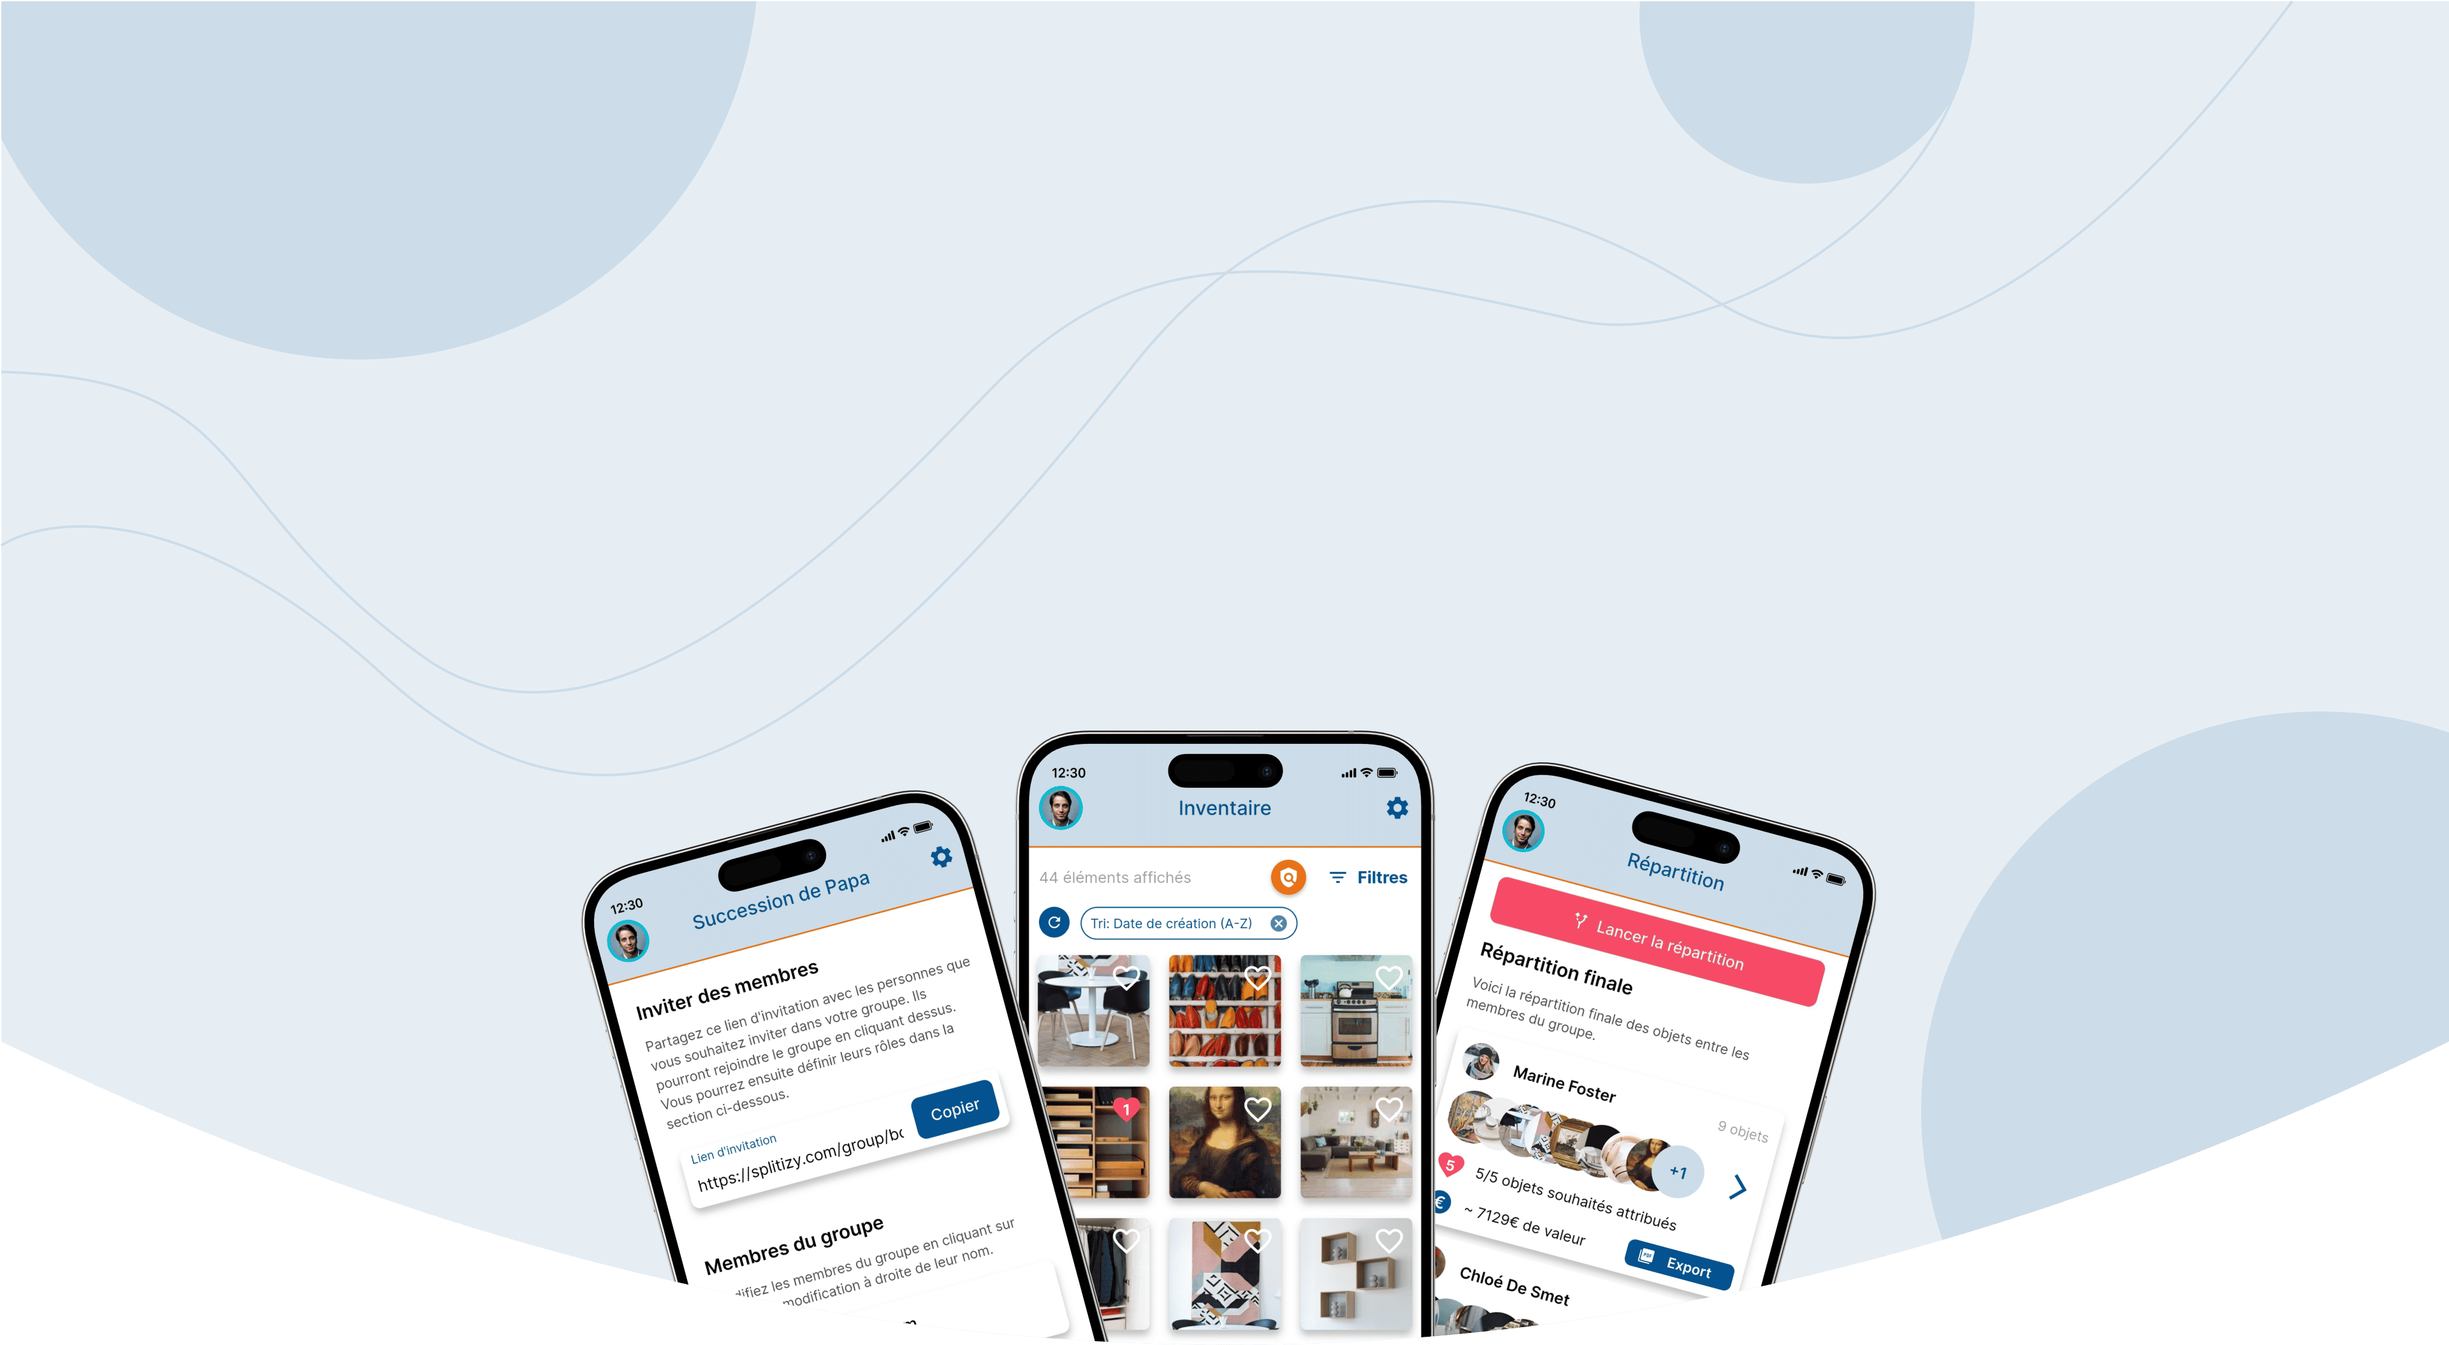
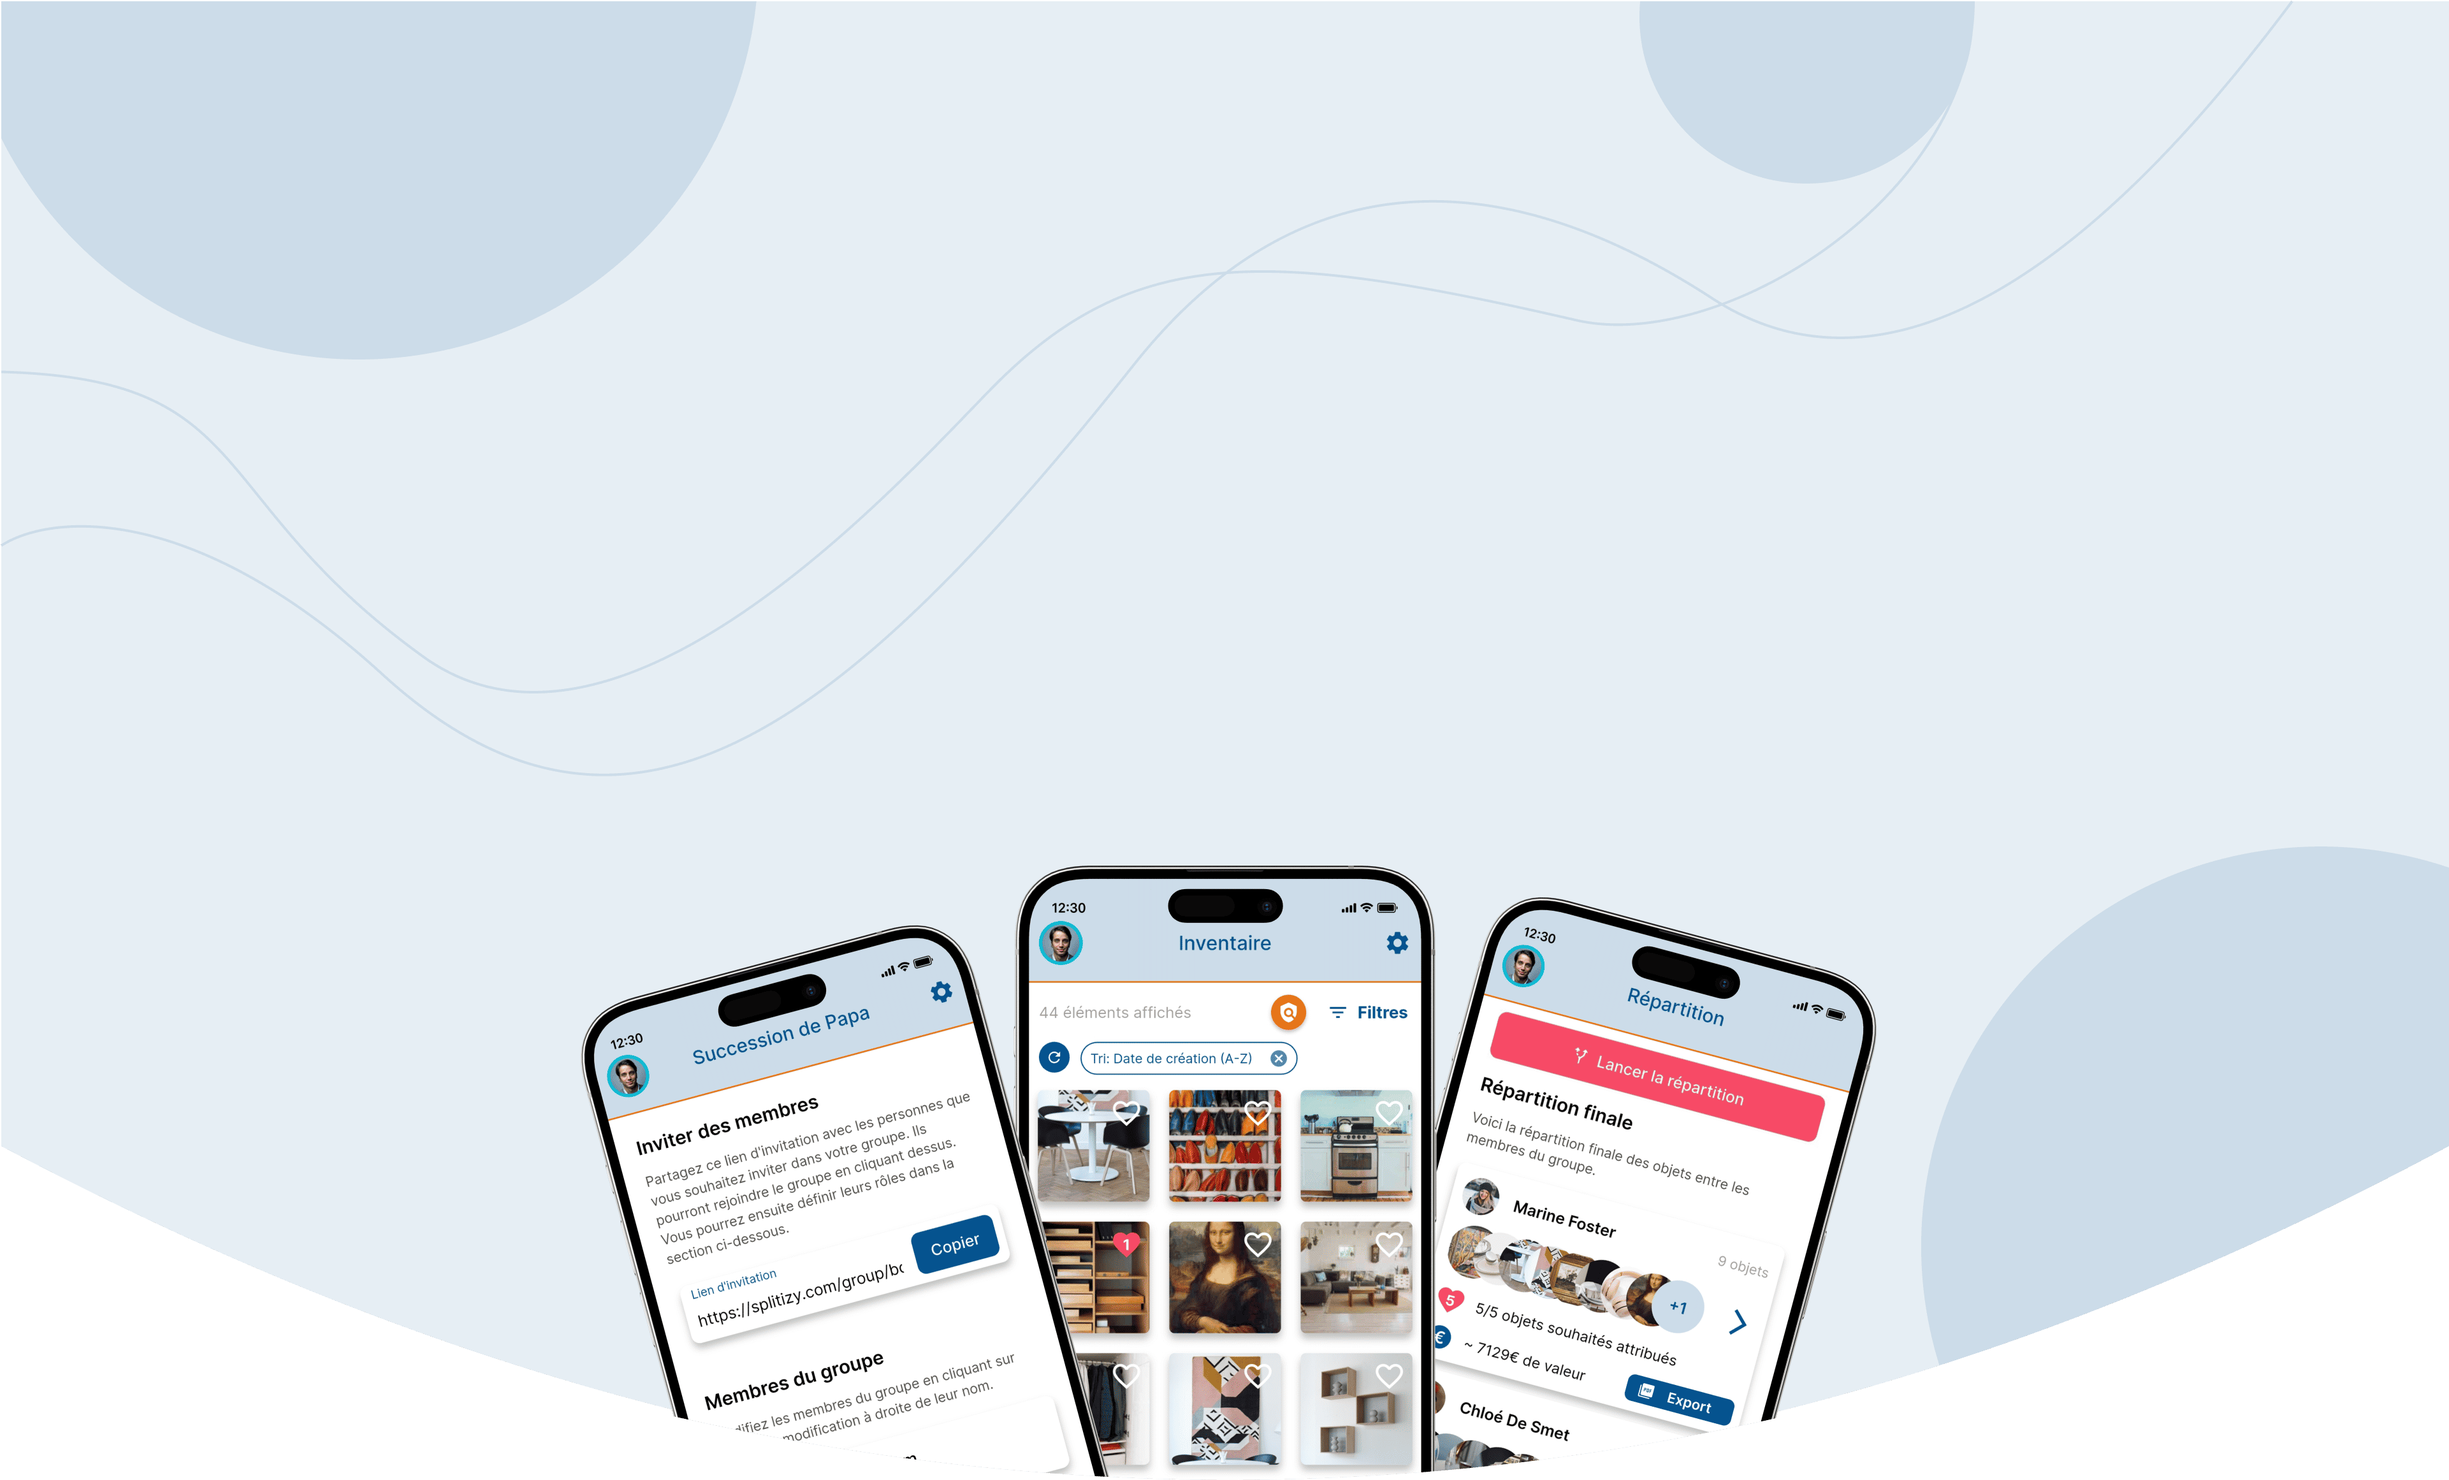
Corrections

diff --git a/index.html b/index.html
@@ -6,7 +6,7 @@
     <meta charset="UTF-8">
     <meta http-equiv="X-UA-Compatible" content="IE=edge">
     <meta name="viewport" content="width=device-width, initial-scale=1.0">
-    <title>Splitizy - Gérez et partagez vos biens en groupe</title>
+    <title>Splitizy - Inventoriez, Gérez et Partagez vos biens en toute sérénité</title>
     <meta name="robots" content="index, follow" />
     <meta name="description" content="Splitizy - La solution innovante pour le partage et la gestion de vos biens en succession. Simplifiez vos successions avec notre application intuitive.">
     <link rel="canonical" href="https://splitizy.com/" />
@@ -77,7 +77,7 @@
                         <div class="col-xl-3 col-lg-2 col-6">
                             <ul class="header-right">
                                 <li class="d-none d-md-block">
-                                    <a class="btn btn-custom-size btn-md btn-professionnel" href="https://sand.pro.splitizy.com">Professionnel</a>
+                                    <a class="btn btn-custom-size btn-md btn-professionnel" href="https://sand.pro.splitizy.com" target="_blank" rel="noopener noreferrer">Professionnel</a>
                                 </li>
                                 <li class="d-none d-md-block">
                                     <a class="btn btn-custom-size btn-md blackcurrant-color extbot-primary-hover-4" href="https://apps.apple.com/fr/app/splitizy/id6747078524" target="_blank" rel="noopener noreferrer">Télécharger</a>
@@ -140,7 +140,7 @@
             <div class="container">
                 <div class="hero-item">
                     <div class="hero-content">
-                        <h1 class="title">Gérez et partagez <br><span>vos biens</span>en groupe.</h1>
+                        <h1 class="title">Inventoriez, <span class="no-bubble">Gérez</span> et Partagez <br><span>vos biens</span>en toute sérénité.</h1>
                         <p class="desc">La solution complète pour l'inventaire, la répartition et le partage équitable de vos biens</p>
                         <div class="hero-btn-wrap">
                             <a href="https://play.google.com/store/apps/details?id=com.splitizy.splitizy&hl=fr" target="_blank" rel="noopener noreferrer">
@@ -278,7 +278,7 @@
                     <div class="col-lg-12">
                         <div class="trial-item">
                             <h2 class="trial-title">C'est gratuit !</h2>
-                            <p class="trial-desc">La version gratuite vous donne accès à toutes les fonctionnalités de Splitizy.
+                            <p class="trial-desc">La version démo vous donne accès à toutes les fonctionnalités de Splitizy gratuitement.
                             </p>
                             <div class="trial-btn-wrap">
                                 <a href="https://play.google.com/store/apps/details?id=com.splitizy.splitizy&hl=fr" target="_blank" rel="noopener noreferrer">
@@ -361,7 +361,7 @@
             <div class="container">
                 <div class="section-area">
                     <h2 class="section-title">Tarifs</h2>
-                    <p class="section-desc">Splitizy offre une version gratuite complète et une Licence Pro pour débloquer toutes les fonctionnalités avancées.</p>
+                    <p class="section-desc">Splitizy offre une version gratuite complète et une Licence Premium pour débloquer toutes les fonctionnalités avancées.</p>
                 </div>
                 <div class="row">
                     <div class="col-12">
@@ -369,7 +369,7 @@
                             <ul class="nav pricing-tab-nav" role="tablist">
                                 <li class="nav-item" role="presentation">
                                     <a class="active tab-btn" id="monthly-tab" data-bs-toggle="tab" href="#monthly" role="tab" aria-controls="monthly" aria-selected="false">
-                                        Licence Pro
+                                        Licence Premium
                                     </a>
                                 </li>
                                 <li class="nav-item" role="presentation">
@@ -422,7 +422,7 @@
                                                 </div>
                                             </div>
                                             <div class="pricing-list-wrap">
-                                                <h2 class="pricing-title">Licence Pro</h2>
+                                                <h2 class="pricing-title">Licence Premium</h2>
                                                 <ul class="pricing-list style-2">
                                                     <li>
                                                         <a href="contact.html">
@@ -656,16 +656,16 @@
                             </div>
                             <div class="col-12">
                                 <div class="faq-item">
-                                    <h3 class="faq-title">Quelle est la différence entre la version gratuite et Pro ?</h3>
+                                    <h3 class="faq-title">Quelle est la différence entre la version Gratuite et Premium ?</h3>
                                     <p class="faq-desc"><strong>Version gratuite</strong> : Jusqu'à 30 objets, 4 membres maximum<br><br>
-                                        <strong>Version Pro</strong> : Inventaire illimité, membres illimités, accès complet aux expertises, répartition finale officielle, exports PDF/Excel professionnels.
+                                        <strong>Version Premium</strong> : Inventaire illimité, membres illimités, accès complet aux expertises, répartition finale officielle, exports PDF/Excel professionnels.
                                     </p>
                                 </div>
                             </div>
                             <div class="col-12">
                                 <div class="faq-item faq-group-desc mb-lg-0">
                                     <h3 class="faq-title">L'application est-elle gratuite ?</h3>
-                                    <p class="faq-desc">Splitizy propose une <strong>version gratuite</strong> limitée à 30 objets et 4 membres par groupe, idéale pour tester l'application. Pour une utilisation plus importante, la <strong>licence Pro à 99€</strong> débloque toutes les fonctionnalités sans limitation.
+                                    <p class="faq-desc">Splitizy propose une <strong>version gratuite</strong> limitée à 30 objets et 4 membres par groupe, idéale pour tester l'application. Pour une utilisation plus importante, la <strong>licence Premium à 99€</strong> débloque toutes les fonctionnalités sans limitation.
                                     </p>
                                 </div>
                             </div>
@@ -687,8 +687,8 @@
                             </div>
                             <div class="col-12">
                                 <div class="faq-item faq-group-desc">
-                                    <h3 class="faq-title">Combien coûte la licence Pro ?</h3>
-                                    <p class="faq-desc">La licence Pro coûte <strong>99€ pour tout le groupe</strong> avec un paiement unique. La licence est <strong>valable 3 ans</strong>, vous laissant tout le temps nécessaire pour effectuer la répartition.
+                                    <h3 class="faq-title">Combien coûte la licence Premium ?</h3>
+                                    <p class="faq-desc">La licence Premium coûte <strong>99€ pour tout le groupe</strong> avec un paiement unique. La licence est <strong>valable 3 ans</strong>, vous laissant tout le temps nécessaire pour effectuer la répartition.
                                     </p>
                                 </div>
                             </div>

diff --git a/assets/css/splitizy-custom.css b/assets/css/splitizy-custom.css
@@ -143,9 +143,34 @@ h1, h2, h3, h4, h5, h6 {
     background: none !important; /* Supprime l'arrière-plan original */
 }
 
+.hero-style-4 .hero-content .title span.no-bubble {
+    padding: 0 !important;
+    margin: 0 !important;
+    display: inline !important;
+    background: none !important; /* Supprime l'arrière-plan original */
+    border: none !important;
+    border-radius: 0 !important;
+    box-shadow: none !important;
+}
+
+.hero-style-4 .hero-content .title span.no-bubble:before {
+    display: none !important;
+}
+
 /* Change la couleur de la bulle originale */
-.hero-style-4 .hero-content .title span:before {
+.hero-style-4 .hero-content .title span:not(.no-bubble):before {
     background-color: var(--splitizy-secondary-alpha-50) !important; /* Couleur de la bulle */
+}
+
+/* Change the download buttons */
+.hero-btn-wrap {
+    text-align: center;
+    margin-top: 20px;
+}
+
+.hero-btn-wrap a {
+    display: inline-block;
+    margin: 0px 30px 0px 30px;
 }
 
 /* Feature icons and content */
@@ -457,7 +482,7 @@ h1, h2, h3, h4, h5, h6 {
 
 /* Download buttons styling */
 .download-btn-img {
-    max-height: 90px;
+    max-height: 80px;
     width: auto;
     transition: transform 0.3s ease;
 }
@@ -507,7 +532,7 @@ h1, h2, h3, h4, h5, h6 {
     }
     
     .hero-btn-wrap a {
-        margin: 0 3px 8px 3px;
+        margin: 20px 3px 8px 3px !important;
     }
     
     /* Bulle encore plus petite pour les très petits écrans */
@@ -764,4 +789,44 @@ h1, h2, h3, h4, h5, h6 {
         max-width: 140px !important;
         height: auto !important;
     }
-} 
+}
+
+/* Ajustements responsifs pour le header entre 992px et 1200px */
+@media (min-width: 992px) and (max-width: 1200px) {
+    /* Forcer la largeur maximale du conteneur */
+    .header-container {
+        max-width: 100% !important;
+        padding-left: 15px !important;
+        padding-right: 15px !important;
+    }
+
+    /* Réduction de la taille du logo */
+    .header-style-4:not(.is-active) .header-logo img {
+        height: 110px !important;
+    }
+
+    /* Réduction de l'espacement du menu */
+    .header-style-4 .header-menu-nav > ul > li:not(:last-child) {
+        margin-right: 15px !important;
+    }
+
+    /* Réduction de l'espacement des boutons */
+    .header-right > li:not(:first-child) {
+        margin-left: 0px !important;
+    }
+}
+@media (min-width: 992px) and (max-width: 1060px) {
+    /* Réduction de l'espacement du menu */
+    .header-style-4 .header-menu-nav > ul > li:not(:last-child) {
+        margin-right: 5px !important;
+    }
+}
+
+/* Dézoome l'image de fond sur très petits écrans */
+@media (max-width: 363px) {
+    .hero-bg.hero-style-4 {
+        background-image: url('../images/header_1_mobile.png') !important;
+        /* background-size: cover !important; */
+        background-position: center !important;
+    }
+}

diff --git a/assets/css/style.css b/assets/css/style.css
@@ -1581,17 +1581,22 @@ img {
   height: 100%;
 }
 .hero-style-4.hero-bg {
-  height: 1055px;
+  height: 1100px;
   background-position: bottom;
+}
+@media (max-width: 1200px) {
+  .hero-style-4.hero-bg {
+    height: 1350px;
+  }
 }
 @media (max-width: 991px) {
   .hero-style-4.hero-bg {
     height: 850px;
   }
 }
-@media (max-width: 991px) {
+@media (max-width: 370px) {
   .hero-style-4.hero-bg {
-    height: 750px;
+    height: 1000px;
   }
 }
 .hero-style-4 .hero-item {
